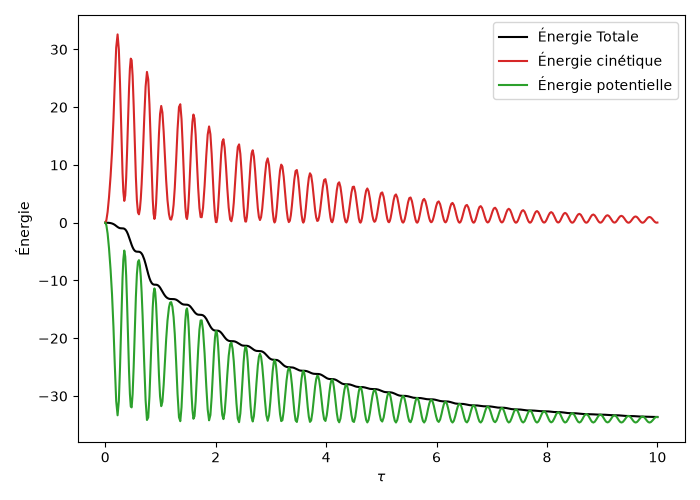
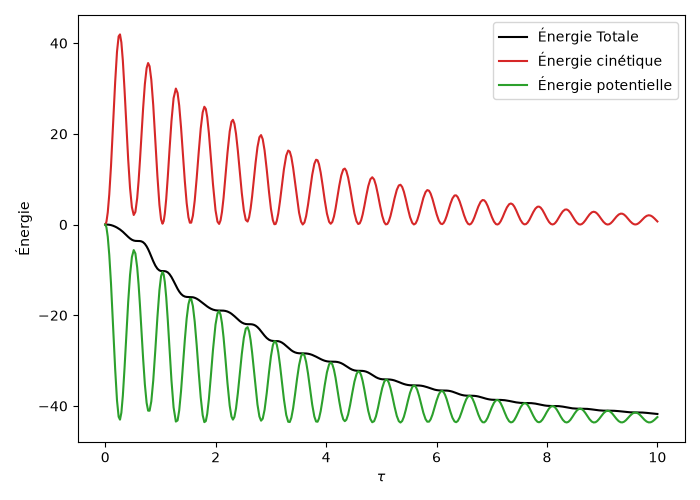
Ajout du code manim

diff --git a/Projet Modelling animation Manim.py b/Projet Modelling animation Manim.py
@@ -1,0 +1,277 @@
+# Projet Modelling and System Analysis
+
+
+#    Rendu :  manim -pql ton_fichier.py Systeme
+
+
+
+# Import de librairies
+from manim import *
+import numpy as np
+from scipy.integrate import solve_ivp
+import matplotlib.pyplot as plt
+
+# Précision
+
+précision_relative = 1e-6
+précision_absolue = 1e-8
+
+# Durée de la simulation
+duréeSimulation = 10
+
+# Conditions initiales 
+theta = -0.5
+psi = 0.5
+vitesseDeRotation = 0
+vitesseDeVariabilitéDuRapportDeLongueur = 0
+
+# Choix des valeurs de paramètres adimensionnels
+gamma = 1
+mu = 1
+xi = 0.5
+lambdA = 0.5
+nu = 1
+sigma = 0.5
+alpha = 0.5
+delta = 1
+eta = 0.5
+pi = np.pi
+
+parametres_adim = (gamma, mu, xi, lambdA, nu, sigma, alpha, delta, eta, pi)
+
+
+# Définition de la fonction 
+def fonction_epsilon(sigma, y3, xi, alpha, y1):
+    epsilon = 1 - sigma/np.sqrt(y3**2 + xi**2 + alpha**2 - 2 * xi * y3 * np.sin(y1) - 2 * alpha * xi * np.cos(y1))
+    return epsilon
+
+# Définition de la fonction que solve_ivp va utiliser 
+def systeme_4_equations(tau, U, gamma, mu, xi, lambdA, nu, sigma, alpha, delta, eta, pi):
+    y1, y2, y3, y4 = U
+
+
+    # Ecriture des 4 équations différentielles
+    dy1_dtau = y2
+    dy2_dtau = 4*pi**2 *(delta * eta / sigma) * fonction_epsilon(sigma, y3, xi, alpha, y1) * (y3 * np.cos(y1) - alpha * np.sin(y1)) - 4 * pi**2 * np.sin(y1)
+    dy3_dtau = y4
+    dy4_dtau = 1 / (mu**2) * 4 * pi**2 * (1 - y3 - lambdA) - 1 / (gamma**2) * fonction_epsilon(sigma, y3, xi, alpha, y1) * 4 * pi**2 * (y3 - xi * np.sin(y1)) - nu * y4
+
+    return(dy1_dtau, dy2_dtau, dy3_dtau, dy4_dtau)
+
+
+
+
+# Définition des conditions initiales 
+U0 = [theta, vitesseDeRotation, psi, vitesseDeVariabilitéDuRapportDeLongueur]
+
+# Intervalle de temps (durée de la simulation)
+t_span = (0, duréeSimulation)
+
+solution = solve_ivp(
+    systeme_4_equations, 
+    t_span, 
+    U0,
+    args=parametres_adim, 
+    method='RK45', 
+    rtol=précision_relative, 
+    atol=précision_absolue
+)
+
+
+temps = solution.t
+y1_sol = solution.y[0]
+y2_sol = solution.y[1]
+y3_sol = solution.y[2]
+y4_sol = solution.y[3]
+
+
+
+# ---------------- ENERGIE ---------------------------------
+
+# Calcul de la norme ||r||
+
+norm_r = np.sqrt(y3_sol**2 + xi**2 + alpha**2 - 2 * xi * y3_sol * np.sin(y1_sol) - 2 * xi * alpha * np.cos(y1_sol))
+
+
+# Energie cinétique 
+
+Ek = (gamma**2 / sigma) * (y4_sol**2) + (xi / (delta * eta)) * (y2_sol**2)
+
+# Energie potentiel 
+
+Ep = (4 * pi**2 * gamma**2 * (1 - y3_sol - lambdA)**2) / (mu**2 * sigma) + (4 * pi**2 * (norm_r - sigma)**2) / sigma - (8 * pi**2 * xi * np.cos(y1_sol)) / (delta * eta) - (8 * pi**2 * gamma**2 * xi * alpha) / (eta * sigma)
+Ep_rel = Ep - Ep[0]
+
+# Energie totale
+
+E_totale = Ek + Ep_rel
+
+
+# Graphique : theta et psi en fonction de thau
+plt.figure(1, figsize=(7, 5))
+
+plt.plot(temps, y1_sol, label=r"$\theta(\tau)$", color="tab:blue")
+plt.plot(temps, y3_sol, label=r"$\psi(\tau)$", color="tab:orange")
+
+plt.xlabel(r"$\tau$")
+plt.ylabel("Valeurs de " + r"$\theta$" + " et " + r"$\psi$")
+plt.title(r"Évolution de $\theta$ et $\psi$ en fonction de $\tau$")
+plt.legend(loc="upper left")
+plt.tight_layout()
+plt.savefig("resultats_simulation.png"); 
+
+# Graphique : énergie en fonction de thau 
+
+plt.figure(2, figsize=(7, 5))
+plt.plot(temps, E_totale, label="Énergie Totale", color="black")
+plt.plot(temps, Ek, label="Énergie cinétique", color="tab:red")
+plt.plot(temps, Ep_rel, label="Énergie potentielle", color="tab:green")
+plt.xlabel(r"$\tau$")
+plt.ylabel("Énergie")
+plt.legend()
+plt.tight_layout()
+plt.savefig("resultats_energie.png")
+
+#plt.show()   
+
+# ---------------------------------------------------------------------------------------------------------------------------
+
+
+class Systeme(Scene):
+    def construct(self):
+
+        class Parametres:
+            def __init__(self):
+                self.xi = xi
+                self.eta = eta
+                self.alpha = alpha
+
+                # --- dessin du système (unités Manim) ---
+                self.S = 5          # longueur D à l'écran (plus grand = animation plus grande)
+                self.d = 0.7        # côté du carré M
+                self.r = 0.2        # rayon de la masse m
+
+                self.sim = np.array([0, duréeSimulation, len(temps)])
+                self.ressort_1 = np.array([8, 12, 0.5])  # extended_length, nbr_spire, extremity_length
+                self.ressort_2 = np.array([8, 12, 0.5])
+
+                # --- centrage sur l'écran ---
+                self.shift_system = np.array([0.5, 2.2, 0])
+
+        P = Parametres()
+
+        simulation = results_simulation(P)
+
+        t = ValueTracker(0)
+        frame = always_redraw(lambda: plot_system(P, t.get_value() + P.sim[0], simulation))
+        self.add(frame)
+        self.play(t.animate.set_value(P.sim[1] - P.sim[0]), rate_func=linear, run_time=P.sim[1] - P.sim[0])
+
+
+
+
+
+
+def plot_system(P, t, simulation):
+
+    from scipy.interpolate import interp1d
+
+    # Création de l'interpolateur pour chaque ligne de y
+    interpolator = [interp1d(simulation.t, y_row, kind='linear', fill_value="extrapolate") for y_row in simulation.y]
+
+    # Interpolation des valeurs pour ce nouveau temps
+    y_interp = np.array([interp(t) for interp in interpolator])
+
+    theta = y_interp[0]
+    psi = y_interp[2]
+
+    # --- Passage du repère du rapport vers l'écran ---
+    # Origine = pivot O ; e_x vers la gauche, e_y vers le bas ; unité = D
+    S = P.S
+    L = P.xi / P.eta  # longueur du pendule / D  (car eta = a/L et xi = a/D)
+
+    def pos(u, v):
+        return np.array([-S * u, -S * v, 0])
+
+    pos_M = pos(psi, P.alpha)                                              # masse M
+    pos_wall = pos(1, P.alpha)                                             # mur (à distance D)
+    pos_attache = pos(P.xi * np.sin(theta), P.xi * np.cos(theta))          # attache du ressort 2 (a e_r)
+    pos_m = pos(L * np.sin(theta), L * np.cos(theta))                      # masse m (L e_r)
+
+    y_sol = pos_M[1] - P.d / 2   # sol sur lequel glisse M
+    y_top = 0.6                  # hauteur de la flèche psi
+
+    # --- Objets ---
+    wall = Rectangle(height=y_top - y_sol, width=P.d, color=BLUE, fill_opacity=0.5).move_to(np.array([pos_wall[0] - P.d / 2, (y_top + y_sol) / 2, 0]))
+    wall_line = Line(start=[pos_wall[0], y_sol, 0], end=[pos_wall[0], y_top, 0], stroke_width=5, color=RED)
+    floor = Line(start=[pos_wall[0], y_sol, 0], end=[0.6, y_sol, 0], stroke_width=5)
+
+    ceiling = Line(start=[-0.4, 0, 0], end=[0.4, 0, 0], stroke_width=5)
+    dashed = DashedLine([0, 0, 0], [0, y_top, 0], dash_length=0.1)
+    dashed_pend = DashedLine([0, 0, 0], [0, -S * L, 0], dash_length=0.1, stroke_width=2)
+    dashed_M = DashedLine([pos_M[0], pos_M[1], 0], [pos_M[0], y_top, 0], dash_length=0.1, stroke_width=2)
+
+    rod = Line(ORIGIN, pos_m, stroke_width=3)
+    mass_m = Circle(radius=P.r, color=BLUE, fill_opacity=0.5, stroke_color=RED).move_to(pos_m)
+    attache = Dot(pos_attache, radius=0.05, color=YELLOW)
+
+    spring_1 = plot_spring(pos_wall[0], pos_wall[1], pos_M[0], pos_M[1], P.ressort_1[0], int(P.ressort_1[1]), P.ressort_1[2])
+    spring_2 = plot_spring(pos_M[0], pos_M[1], pos_attache[0], pos_attache[1], P.ressort_2[0], int(P.ressort_2[1]), P.ressort_2[2])
+    mass_M = RoundedRectangle(corner_radius=P.d / 5, height=P.d, width=P.d, color=BLUE, fill_opacity=0.5, stroke_color=RED).move_to(pos_M)
+
+    psi_arrow = Arrow([0, y_top, 0], [pos_M[0], y_top, 0], buff=0, stroke_width=3, max_tip_length_to_length_ratio=0.12)
+    psi_label = Tex(rf"$\psi(\tau) = {psi:.2f}$", font_size=36).next_to(psi_arrow.get_midpoint(), direction=UP * 0.5)
+    theta_label = Tex(rf"$\theta(\tau) = {theta / np.pi * 180:.2f}^\circ$", font_size=36).next_to(np.array([0.6, y_top, 0]), RIGHT)
+
+    return VGroup(wall, wall_line, floor, ceiling, dashed, dashed_pend, dashed_M, rod, spring_1, spring_2, mass_m, mass_M, attache,psi_arrow, psi_label, theta_label).shift(P.shift_system)
+
+
+# plot_spring : fonction du prof, STRICTEMENT inchangée
+def plot_spring(x_1, y_1, x_2, y_2, extended_length, nbr_spire, extremity_length):
+
+    rest_length = np.sqrt((x_2 - x_1)**2 + (y_2 - y_1)**2)
+    theta = np.arctan2(y_2 - y_1, x_2 - x_1)  # Utilisation de arctan2 pour éviter les erreurs
+
+    M = np.array([[np.cos(theta), -np.sin(theta)], [np.sin(theta), np.cos(theta)]])
+
+    c = (rest_length - 2 * extremity_length) / (4 * nbr_spire)
+    b = (rest_length - 2 * extended_length) / (4 * nbr_spire)
+    d = np.sqrt(b**2 - c**2)
+
+    coord = np.zeros((2, 4 * nbr_spire + 3))
+    coord[0, -1] = rest_length
+
+    for i in range(1, 4 * nbr_spire + 2):
+        if (i - 1) % 4 == 0 or (i - 3) % 4 == 0:
+            coord[0, i] = extremity_length + (i - 1) * c
+        if (i - 2) % 4 == 0:
+            coord[0, i] = extremity_length + (i - 1) * c
+            coord[1, i] = d
+        if (i - 4) % 4 == 0:
+            coord[0, i] = extremity_length + (i - 1) * c
+            coord[1, i] = -d
+
+    coord = M @ coord
+    coord[0, :] += x_1
+    coord[1, :] += y_1
+
+    group = VGroup()
+    for i in range(0, len(coord[0]) - 1):
+        line = Line(
+            start=[coord[0, i], coord[1, i], 0],
+            end=[coord[0, i+1], coord[1, i+1], 0],
+            stroke_width=5,
+            color=WHITE
+        )
+        group.add(line)
+
+        # Ajouter un petit cercle aux jonctions pour adoucir l'effet
+        dot = Dot([coord[0, i+1], coord[1, i+1], 0], radius=0.025, color=WHITE)
+        group.add(dot)
+
+    return group
+
+
+def results_simulation(P):
+
+    return solution

diff --git a/Python Projet Modelling and System Analysis.py b/Python Projet Modelling and System Analysis.py
@@ -22,13 +22,13 @@ vitesseDeVariabilitéDuRapportDeLongueur = 0
 # Choix des valeurs de paramètres adimensionnels
 gamma = 1
 mu = 1
-xi = 1
-lambdA = 0
+xi = 0.5
+lambdA = 0.5
 nu = 1
 sigma = 0.5
-alpha = 1
+alpha = 0.5
 delta = 1
-eta = 1
+eta = 0.5
 pi = np.pi
 
 parametres_adim = (gamma, mu, xi, lambdA, nu, sigma, alpha, delta, eta, pi)
